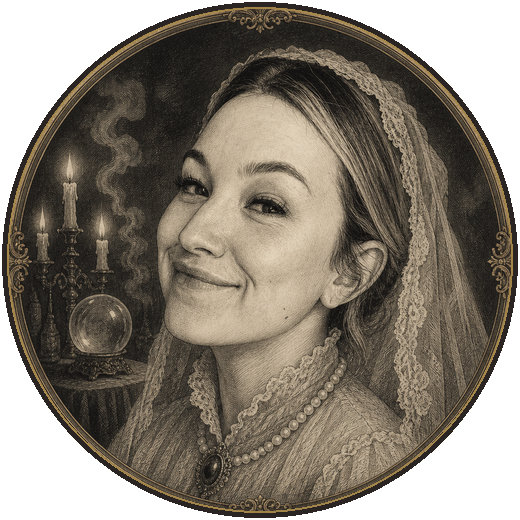
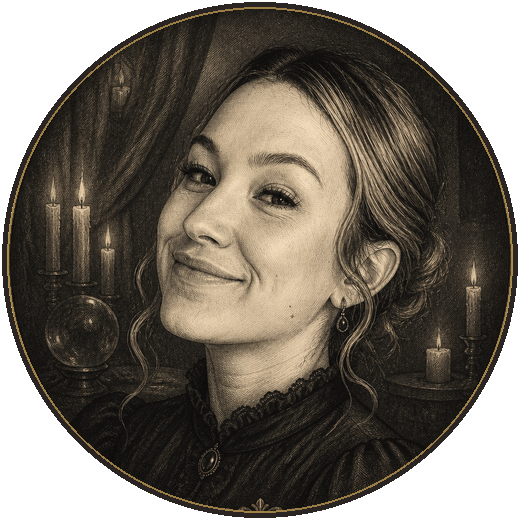
Make only Kassie bridal in AI séance crew plates.
Regenerate guest portraits without veils/gowns; keep Kassandra as the sole betrothed, and clarify Crew page copy.

diff --git a/vcc/diary.html b/vcc/diary.html
@@ -687,7 +687,7 @@ html, body {
             <div class="ornament" aria-hidden="true"><svg viewBox="0 0 120 36" fill="none"><path d="M8 18c12-10 20-10 32 0-12 10-20 10-32 0Z" stroke="currentColor" stroke-width="1"/><path d="M48 18c12-10 20-10 32 0" stroke="currentColor" stroke-width="1"/><path d="M80 18c12-10 20-10 32 0-12 10-20 10-32 0Z" stroke="currentColor" stroke-width="1"/><circle cx="60" cy="18" r="2.2" fill="currentColor"/></svg></div>
             <p class="eyebrow">Chapter II · The Circle</p>
             <h2 class="script-title">Meet the Crew</h2>
-            <p class="day-sub">Nine summoned · one bride · Betrothed in the Bayou</p>
+            <p class="day-sub">The bride · and the circle she summoned</p>
             <div class="divider"><span class="divider-star"></span></div>
             <div class="crew-grid">
               <div class="crew-member"><div class="crew-avatar bride"><img src="assets/diary/crew/kassandra.png" alt="Kassandra"></div><div class="crew-name">Kassandra</div></div>
